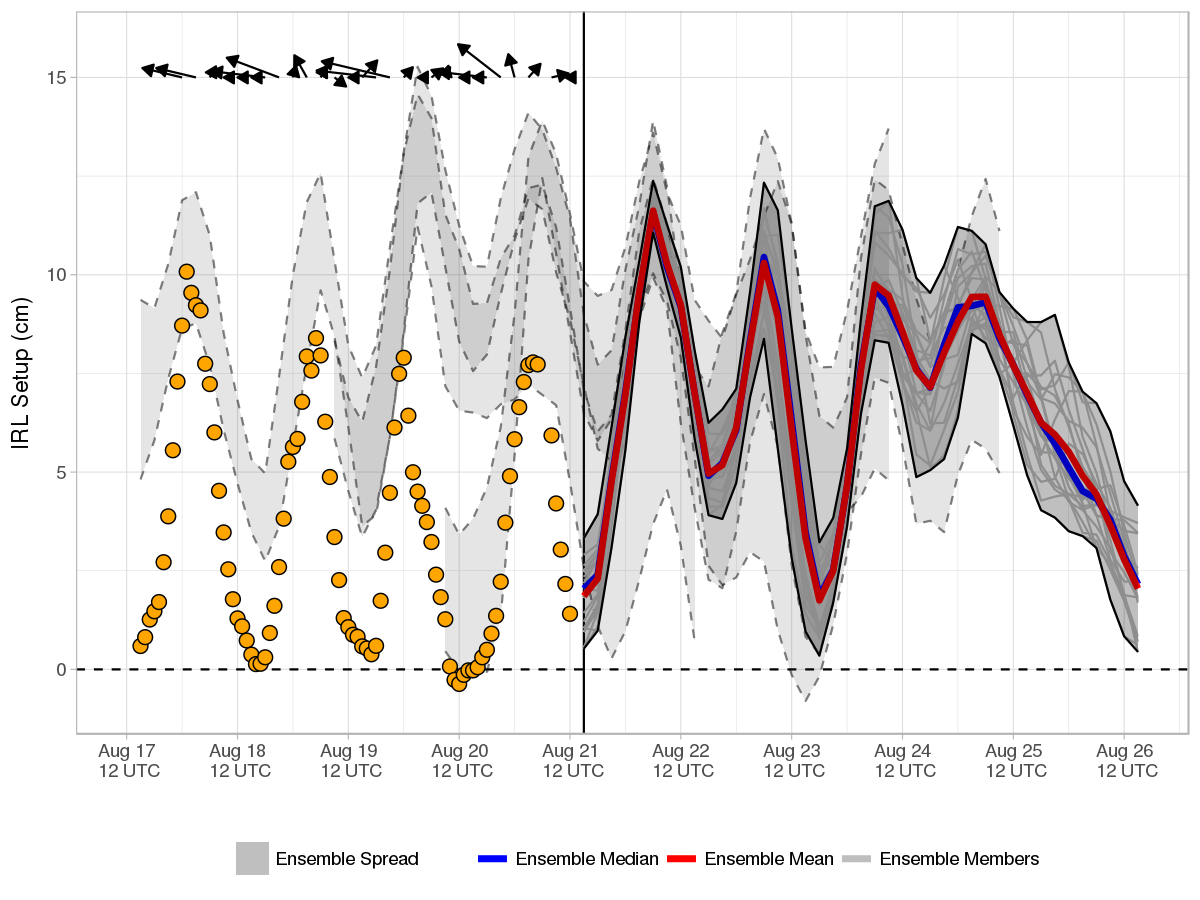
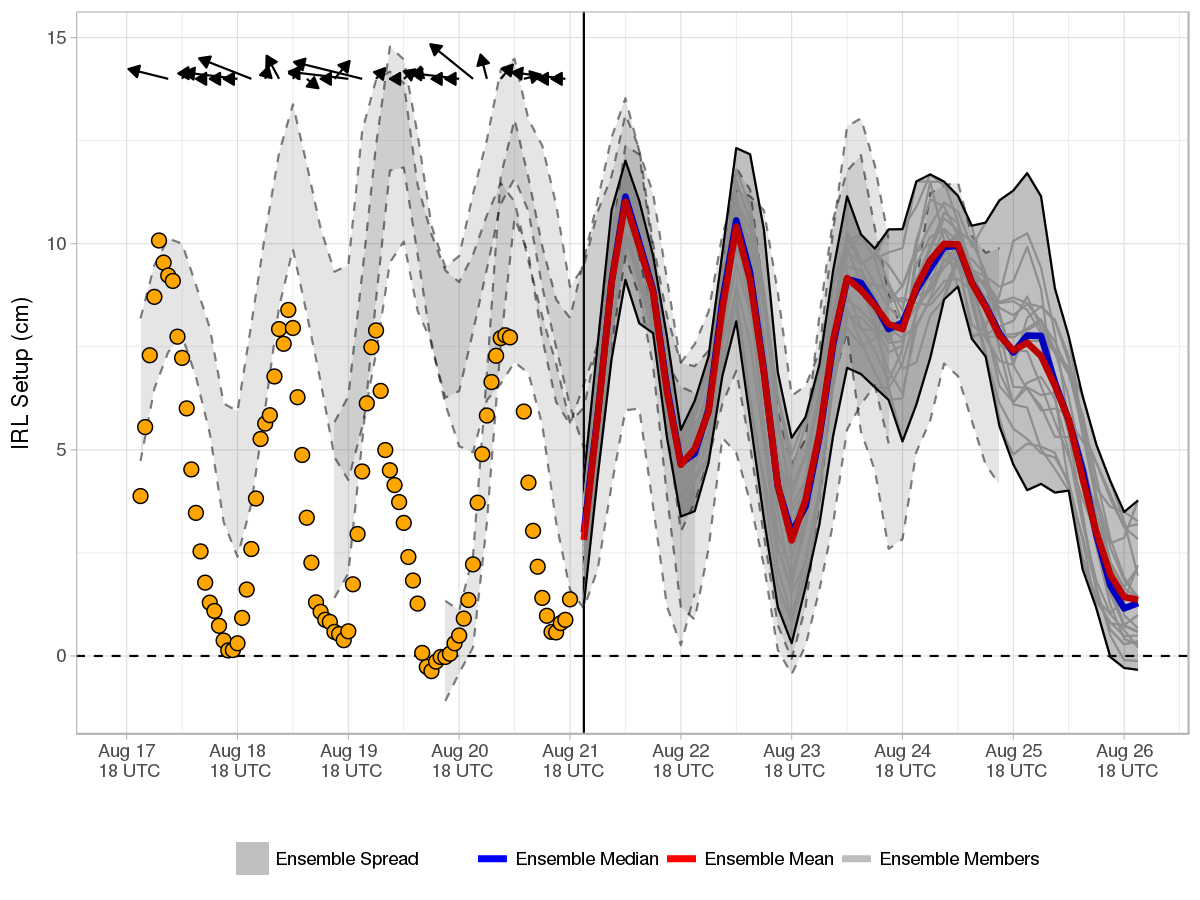
Forecast Update

Changed region(s): [[0.0308, 0.0311, 0.9867, 0.7778], [0.0308, 0.2489, 0.0617, 0.28]]

diff --git a/docs/index.md b/docs/index.md
@@ -1,9 +1,9 @@
-Current Forecast 2018-08-21, Cycle 06 UTC
+Current Forecast 2018-08-21, Cycle 12 UTC
 -----------------------------------------
 
 [![](img/raw_setup.png)](https://fit-winds.github.io/IRLSetup/img/raw_setup.png)
 
-> Forecast valid 2018-08-21 08:32:26.
+> Forecast valid 2018-08-21 14:35:19.
 
 Explanation
 -----------
@@ -23,7 +23,7 @@ Ensemble Forecast System
 cycles. Calculation of the IRL setup is performed shortly after a new
 GEFS cycle is made available on the [data access
 link](http://www.ftp.ncep.noaa.gov/data/nccf/com/gens/prod/). The
-current cycle 2018-08-21 06 UTC 0.5° GEFS mean and median forecasts of
+current cycle 2018-08-21 12 UTC 0.5° GEFS mean and median forecasts of
 setup are represented by the red and blue curves, respectively. Ensemble
 spread from the current and three previous GEFS runs are shaded grey and
 bounded by solid and dashed curves, respectively.
